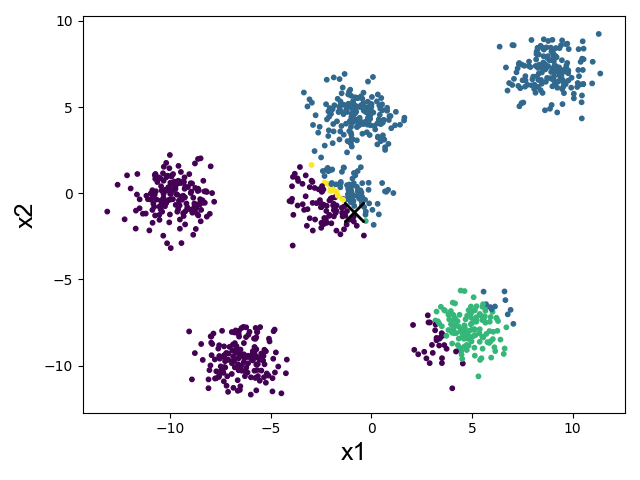
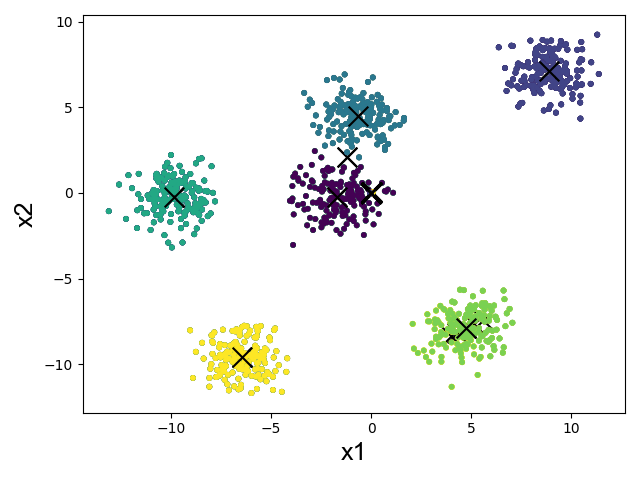
Handle unequal numbers of unique label values

diff --git a/all_together_now.py b/all_together_now.py
@@ -1,5 +1,7 @@
 #!/usr/bin/env python3
 
+import linecache
+import sys
 import numpy as np
 import time
 import string
@@ -13,6 +15,18 @@ from classes.my_k_means import MyKMeans
 from classes.my_expect_max import MyExpectMax
 from sklearn.decomposition import PCA, FastICA, TruncatedSVD
 from sklearn.random_projection import GaussianRandomProjection
+
+
+def print_exception():
+    exc_type, exc_obj, tb = sys.exc_info()
+    f = tb.tb_frame
+    lineno = tb.tb_lineno
+    filename = f.f_code.co_filename
+    linecache.checkcache(filename)
+    line = linecache.getline(filename, lineno, f.f_globals)
+    print('*****************************')
+    print('EXCEPTION IN ({}, LINE {} "{}"): {}'.format(filename, lineno, line.strip(), exc_obj))
+    print('*****************************')
 
 def scatter_stuff(X, y, centers, name):
     plt.scatter(X[:, 0], X[:, 1], c=y, s=10)
@@ -39,22 +53,30 @@ def lowest_label_error(labels1, labels2):
     # Get arrays of unique labels.
     unique_labels1 = np.unique(labels1)
     unique_labels2 = np.unique(labels2)
+    n_unique_labels1 = unique_labels1.shape[0]
+    n_unique_labels2 = unique_labels2.shape[0]
+    n_samples1 = labels1.shape[0]
+    n_samples2 = labels2.shape[0]
+    if n_samples1 != n_samples2:
+        raise Exception('oh no! n_samples are different lengths!')
 
     # Check that the two inputs have the same number of unique labels.
-    n_labels = unique_labels1.shape[0]
-    if n_labels is not unique_labels2.shape[0]:
-        print('unique_labels1', unique_labels1)
-        print('unique_labels2', unique_labels2)
-        raise Exception('oh no! labels are not the same length!')
+    if n_unique_labels1 != n_unique_labels2:
+        print('oh no! unique labels are not the same length!')
+        print('n_unique_labels1', n_unique_labels1)
+        print('n_unique_labels2', n_unique_labels2)
+
+    # Get the greater number of unique labels.
+    greater_n_unique_labels = max(n_unique_labels1, n_unique_labels2)
 
     # Init empty masks.
-    masks1 = np.zeros((n_labels, labels1.shape[0]), dtype=bool)
-    masks2 = np.copy(masks1)
+    masks1 = np.zeros((greater_n_unique_labels, n_samples1), dtype=bool)
+    masks2 = np.zeros((greater_n_unique_labels, n_samples2), dtype=bool)
 
     # Create an array for each unique value and add it to a mask.
-    for i in range(n_labels):
+    for i in range(n_unique_labels1):
         masks1[i] = np.array([label == unique_labels1[i] for label in labels1])
-    for i in range(n_labels):
+    for i in range(n_unique_labels2):
         masks2[i] = np.array([label == unique_labels2[i] for label in labels2])
 
     # Find the lowest error between mask1 and every permutation of mask2.
@@ -70,43 +92,47 @@ def lowest_label_error(labels1, labels2):
 
 RS = 11
 
-## Wine Quality
-#name = 'wq'
-#cluster_std = 10000
-#target = 'quality'
-#train = pd.read_csv(f'wine_train.csv')
-#test = pd.read_csv(f'wine_test.csv')
-#full = pd.concat([train, test])
-#y = np.array(train.loc[:,target])
-#X = np.array(train.drop(target, axis=1))
-#transformers = [
-#    PCA(n_components=1, random_state=RS),
-#    FastICA(random_state=RS),
-#    GaussianRandomProjection(random_state=RS, n_components=9),
-#    TruncatedSVD(n_components=1, random_state=RS)
-#]
-
-# Generated Blobs
-name = 'gb'
-cluster_std = 1
-X, y = make_blobs(
-    centers=6,
-    n_features=2,
-    n_samples=1000,
-    random_state=11
-)
+# Wine Quality
+name = 'wq'
+cluster_std = 10000
+target = 'quality'
+train = pd.read_csv(f'wine_train.csv')
+test = pd.read_csv(f'wine_test.csv')
+full = pd.concat([train, test])
+y = np.array(train.loc[:,target])
+X = np.array(train.drop(target, axis=1))
 transformers = [
+    None,
     PCA(n_components=1, random_state=RS),
+    FastICA(random_state=RS),
+    GaussianRandomProjection(random_state=RS, n_components=9),
+    TruncatedSVD(n_components=1, random_state=RS)
+]
+
+## Generated Blobs
+#name = 'gb'
+#cluster_std = 1
+#X, y = make_blobs(
+#    centers=6,
+#    n_features=2,
+#    n_samples=1000,
+#    random_state=RS
+#)
+#transformers = [
+#    None,
+#    PCA(n_components=1, random_state=RS),
 #    FastICA(random_state=RS),
 #    GaussianRandomProjection(random_state=RS, n_components=1),
 #    TruncatedSVD(n_components=1, random_state=RS)
-]
+#]
 
 np.random.seed(RS)
 random_states = np.random.choice(range(1000), size=5, replace=False)
 total_start_time = time.time()
 n_clusters = np.unique(y).shape[0]
 metrics = {
+    'NoneType_MyKMeans': {'best_score': -1},
+    'NoneType_MyExpectMax': {'best_score': -1},
     'PCA_MyKMeans': {'best_score': -1},
     'PCA_MyExpectMax': {'best_score': -1},
     'FastICA_MyKMeans': {'best_score': -1},
@@ -117,30 +143,31 @@ metrics = {
     'TruncatedSVD_MyExpectMax': {'best_score': -1}
 }
 clusterers = [
-#    'MyKMeans',
+    'MyKMeans',
     'MyExpectMax'
 ]
 
 for transformer in transformers:
-    tf_name = transformer.__class__.__name__
-#    X_new = transformer.fit_transform(X)
-    X_new = np.copy(X)
+    if transformer == None:
+        X_new = np.copy(X)
+    else:
+        X_new = transformer.fit_transform(X)
 
+    tf_name = transformer.__class__.__name__
     for clusterer in clusterers:
         try:
             key = f'{tf_name}_{clusterer}'
             print(key)
 
             for rs in random_states:
-                print('rs', rs)
                 # hack for weird behavior
-                if name is 'wq' and key is 'FastICA_MyExpectMax' and rs is not 730:
+                if name == 'wq' and key == 'FastICA_MyExpectMax' and rs != 730:
                     continue
 
-                if clusterer is 'MyKMeans':
+                if clusterer == 'MyKMeans':
                     clusterer = MyKMeans(data=X_new, n_clusters=n_clusters, random_state=rs)
                 else:
-                    clusterer = MyExpectMax(data=X_new, n_clusters=n_clusters, random_state=rs, cluster_std=10000)
+                    clusterer = MyExpectMax(data=X_new, n_clusters=n_clusters, random_state=rs, cluster_std=cluster_std)
 
                 start_time = time.time()
                 cluster_labels, centers, iters = clusterer.run()
@@ -156,11 +183,9 @@ for transformer in transformers:
                     metrics[key]['iters'] = iters
                     metrics[key]['elapsed'] = elapsed
                     metrics[key]['cluster_std'] = cluster_std
-#                    metrics[key]['error'] = lowest_label_error(cluster_labels, y)
-                    scatter_stuff(X_new, cluster_labels, centers, 'name')
+                    metrics[key]['error'] = lowest_label_error(y, cluster_labels)
         except Exception as e:
-            print('EXCEPTION!')
-            print(e)
+            print_exception()
 
 pprint.PrettyPrinter(indent=4).pprint(metrics)
 print('total_elapsed:', time.time() - total_start_time)

diff --git a/nn_dim_reduce.py b/nn_dim_reduce.py
@@ -10,6 +10,7 @@ from sklearn.decomposition import PCA, FastICA, TruncatedSVD
 from sklearn.random_projection import GaussianRandomProjection
 from sklearn.model_selection import GridSearchCV
 from sklearn.neural_network import MLPClassifier
+#from sklearn.model_selection import cross_val_score
 
 def plot_stuff(cluster_counts, k_means, expect_max, name):
     font = { 'family': 'Arial', 'size': 18 }
@@ -72,7 +73,7 @@ X_test = test.drop(target, axis=1)
 transformers = [
     None,
     PCA(n_components=1, random_state=RS),
-#    FastICA(random_state=RS),
+    FastICA(random_state=RS),
     GaussianRandomProjection(random_state=RS, n_components=9),
     TruncatedSVD(n_components=1, random_state=RS)
 ]
@@ -90,49 +91,46 @@ metrics = {
 
 for transformer in transformers:
     # Transform the data (or not).
-    transform_start_time = time.time()
     if transformer is None:
         key = 'None'
         X_train_new = np.copy(X_train)
         X_test_new = np.copy(X_test)
     else:
         key = transformer.__class__.__name__
+        transform_start_time = time.time()
         transformer.fit(X_train)
         X_train_new = transformer.transform(X_train)
         X_test_new = transformer.transform(X_test)
-    transform_time = round(time.time() - transform_start_time, 3)
+        metrics[key]['transform_time'] = round(time.time() - transform_start_time, 3)
     print(key)
 
     try:
         # Perform a grid seach to find the best hyper parameters.
         grid = {
             'random_state': [RS],
-            'hidden_layer_sizes': [(100,)],
+            'hidden_layer_sizes': [(5,), (10,), (50,), (100,)],
             'alpha': [0.0001, 0.0002, 0.0003, 0.0004],
-            'learning_rate_init': [0.001, 0.002, 0.003, 0.004],
+            'learning_rate_init': [1e-4, 1e-3, 1e-2],
             'max_iter': [500]
         }
         clf = GridSearchCV(MLPClassifier(), grid, n_jobs=-1, cv=5)
         grid_start_time = time.time()
         clf.fit(X_train_new, y_train)
-        grid_time = round(time.time() - grid_start_time, 3)
-
-        # Write down the best validatoin score from grid search.
-        metrics[key]['grid_cv_score'] = clf.cv_results_['mean_test_score']
-        print(metrics[key]['grid_cv_score'])
+        metrics[key]['grid_time'] = round(time.time() - grid_start_time, 3)
+        metrics[key]['best_params'] = clf.best_params_
 
         # Define new classifier based on best hyperparamters
         clf = MLPClassifier(**clf.best_params_)
 
         # Train the new classifier on all training data.
         train_start_time = time.time()
-        train_time = round(time.time() - train_start_time, 3)
+        clf.fit(X_train_new, y_train)
+        metrics[key]['iters'] = clf.n_iter_
+        metrics[key]['train_time'] = round(time.time() - train_start_time, 3)
 
-        metrics[key]['accuracy'] = accuracy
-        metrics[key]['iters'] = iters
-        metrics[key]['transform_time'] = transform_time
-        metrics[key]['grid_time'] = grid_time
-        metrics[key]['train_time'] = train_time
+        # Calculate the final scores.
+        metrics[key]['final_train_score'] = clf.score(X_train_new, y_train)
+        metrics[key]['final_test_score'] = clf.score(X_test_new, y_test)
     except Exception as e:
         print('EXCEPTION!')
         print(e)

diff --git a/main.py b/main.py
@@ -53,24 +53,25 @@ def lowest_label_error(labels1, labels2):
             lowest_error = error
     return lowest_error / labels1.shape[0]
 
-target = 'quality'
-train = pd.read_csv(f'wine_train.csv')
-test = pd.read_csv(f'wine_test.csv')
-full = pd.concat([train, test])
-y = np.array(train.loc[:,target])
-X = np.array(train.drop(target, axis=1))
+#target = 'quality'
+#train = pd.read_csv(f'wine_train.csv')
+#test = pd.read_csv(f'wine_test.csv')
+#full = pd.concat([train, test])
+#y = np.array(train.loc[:,target])
+#X = np.array(train.drop(target, axis=1))
 
-#X, y = make_blobs(
-#    centers=6,
-#    n_features=2,
-#    n_samples=1000,
-#    random_state=11
-#)
-#print('score:', silhouette_score(X, y))
+X, y = make_blobs(
+    centers=6,
+    n_features=2,
+    n_samples=1000,
+    random_state=11
+)
+print('score:', silhouette_score(X, y))
 
 np.random.seed(11)
 random_states = np.random.choice(range(1000), size=5, replace=False)
 #random_states =  [25]
+random_states =  [11]
 
 metrics = {
     'MyKMeans': {'score': -1},
@@ -81,12 +82,12 @@ k_means_scores = []
 expexct_max_scores = []
 cluster_counts = []
 total_start_time = time.time()
-for n_clusters in range(2, 12):
+for n_clusters in range(6,7):
     best_score = {'MyKMeans': -1, 'MyExpectMax': -1}
     for cluster_std in [10000]:
         for random_state in random_states:
             clusterers = [
-                MyKMeans(data=X, n_clusters=n_clusters, random_state=random_state),
+#                MyKMeans(data=X, n_clusters=n_clusters, random_state=random_state),
                 MyExpectMax(data=X, n_clusters=n_clusters, random_state=random_state, cluster_std=cluster_std)
             ]
 
@@ -95,6 +96,9 @@ for n_clusters in range(2, 12):
 
                 start_time = time.time()
                 cluster_labels, centers, iters = clusterer.run()
+                print('n_clusters', np.unique(n_clusters))
+                print('cluster_labels', np.unique(cluster_labels))
+                exit()
                 elapsed = round(time.time() - start_time, 3)
                 score = silhouette_score(X, cluster_labels)
 
